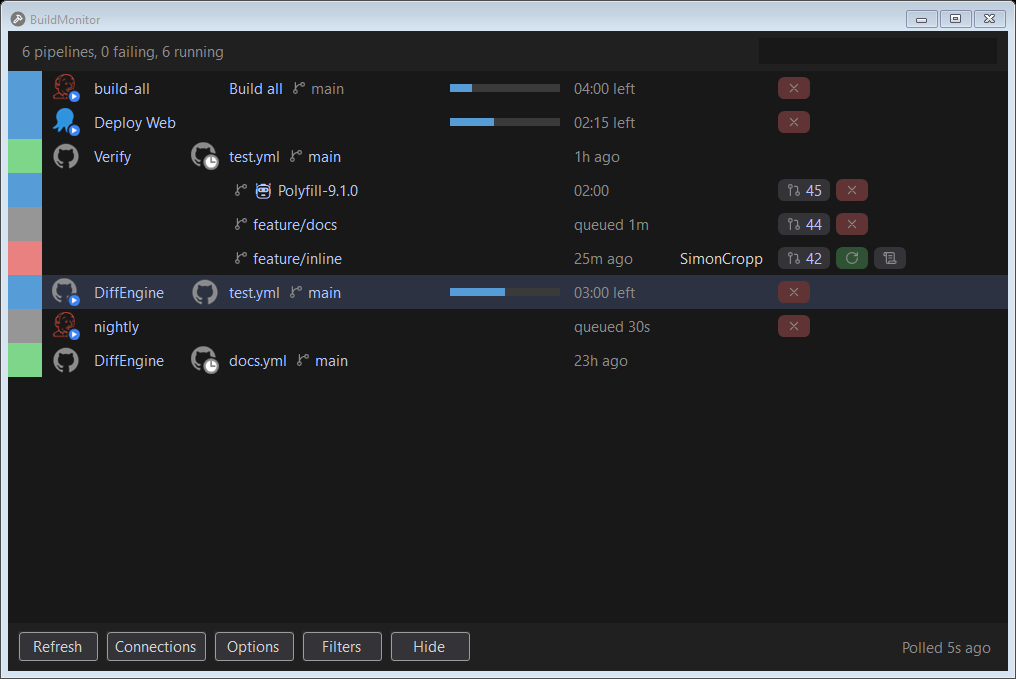
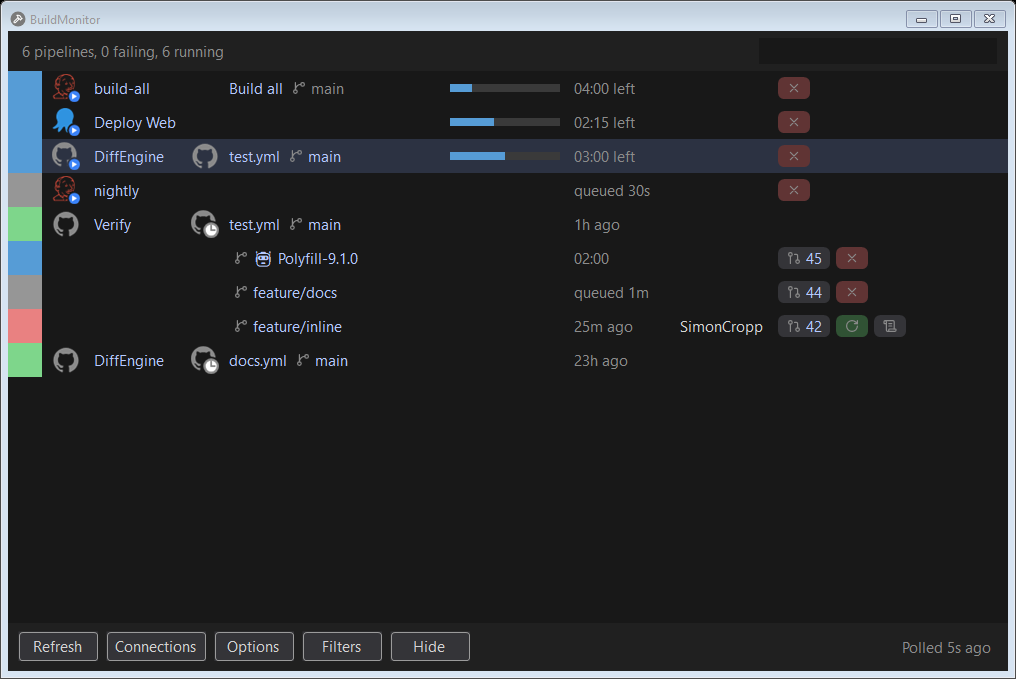
Sort a pipeline by its own run
A pipeline sorted by the most urgent of its rows, so a pull request running under a green main
pulled the green row up among the running ones, and a failed pull request put red above other
pipelines still running: the list read green and red in no order. A pipeline now sorts by its own
run, and its lanes stay beneath it wherever that is, so the rows sort as they did before lanes,
running, queued, failed, then the rest, a pipeline whose main passed sitting with the passing
rows while one of its pull requests runs.

Changed region(s): [[0.0, 0.1856, 1.0, 0.5258]]

diff --git a/src/BuildMonitor.Tests/Launcher/StatusPrinterTests.cs b/src/BuildMonitor.Tests/Launcher/StatusPrinterTests.cs
@@ -39,12 +39,12 @@ public class StatusPrinterTests
 
                   build-all   Build all   main               #501     Running    04:00 left   https://example.com/jenkins/build-all/501
                   Deploy Web  Deploy Web                     #12      Running    02:15 left   https://example.com/octo/Projects-1/12
+                  DiffEngine  test.yml    main               #1234    Running    03:00 left   https://example.com/gh/DiffEngine/test.yml/1234
+                  nightly     Nightly                        #88      Queued     queued 30s   https://example.com/jenkins/nightly/88
                   Verify      test.yml    main               #76      Succeeded  1h ago       https://example.com/gh/Verify/test.yml/76
                                           🤖 Polyfill-9.1.0  #80      Running    02:00        https://example.com/gh/Verify/test.yml/80
                                           feature/docs       #79      Queued     queued 1m    https://example.com/gh/Verify/test.yml/79
                                           feature/inline     #77      Failed     25m ago      https://example.com/gh/Verify/test.yml/77
-                  DiffEngine  test.yml    main               #1234    Running    03:00 left   https://example.com/gh/DiffEngine/test.yml/1234
-                  nightly     Nightly                        #88      Queued     queued 30s   https://example.com/jenkins/nightly/88
                   DiffEngine  docs.yml    main               #300     Succeeded  23h ago      https://example.com/gh/DiffEngine/docs.yml/300
                 """);
     }

diff --git a/src/BuildMonitor.Core/Session/RowProjection.cs b/src/BuildMonitor.Core/Session/RowProjection.cs
@@ -210,8 +210,10 @@ static class RowProjection
     }
 
     /// <summary>
-    /// By each pipeline's most urgent row, the most recent of those where several tie, so a
-    /// pipeline whose pull request is running sits with the running rows, its own run above it.
+    /// By each pipeline's own run, its lanes following it wherever that sorts. Sorted by the most
+    /// urgent of its rows, a green main was pulled up among the running rows by a pull request, and
+    /// the list read green and red in no order; the rows are about the pipeline's own run, and its
+    /// lanes are what it has going on besides.
     /// </summary>
     static ImmutableArray<PipelineBuilds> Sort(SessionState state) =>
     [
@@ -225,11 +227,12 @@ static class RowProjection
             .Select(_ => _.Pipeline)
     ];
 
+    /// <summary>
+    /// The row a pipeline sorts by: its own run, or, where a deferral hid that, the first lane,
+    /// which names the pipeline in its place.
+    /// </summary>
     static Build Lead(PipelineBuilds pipeline) =>
-        pipeline.Shown
-            .OrderBy(_ => _.Rank())
-            .ThenByDescending(_ => _.Ordering ?? DateTimeOffset.MinValue)
-            .First();
+        pipeline.Head ?? pipeline.Lanes[0];
 
     /// <summary>
     /// A deferral drops a row after the selection rather than before it: dropped first, the run

diff --git a/src/BuildMonitor.Tests/RowProjectionTests.cs b/src/BuildMonitor.Tests/RowProjectionTests.cs
@@ -71,8 +71,8 @@ public class RowProjectionTests
 
     /// <summary>
     /// A pipeline's lanes follow its own row, running before queued before failed, and the
-    /// pipeline sorts by the most urgent of its rows: Verify's running pull request puts Verify
-    /// among the running rows, its passing main above it.
+    /// pipeline sorts by its own run: Verify's main passed, so Verify sits with the passing rows,
+    /// its running pull request beneath it there.
     /// </summary>
     [Test]
     public Task LanesFollowTheirPipelinesRow() =>
@@ -82,12 +82,12 @@ public class RowProjectionTests
                 [
                   Build jenkins/build-all/main Running,
                   Build octo/Projects-1/ Running,
+                  Build gh/DiffEngine/test.yml/main Running,
+                  Build jenkins/nightly/ Queued,
                   Build gh/Verify/test.yml/main Succeeded,
                   Lane gh/Verify/test.yml/dependabot/nuget/src/Polyfill-9.1.0 Running,
                   Lane gh/Verify/test.yml/feature/docs Queued,
                   Lane gh/Verify/test.yml/feature/inline Failed,
-                  Build gh/DiffEngine/test.yml/main Running,
-                  Build jenkins/nightly/ Queued,
                   Build gh/DiffEngine/docs.yml/main Succeeded
                 ]
                 """);

diff --git a/src/BuildMonitor.Tests/ScreenTests.cs b/src/BuildMonitor.Tests/ScreenTests.cs
@@ -487,12 +487,12 @@ public class ScreenTests
                 [
                   Build [Build] '[build-all](Build)' provider-jenkins-run| | [Build all](Pipeline) main | [Cancel],
                   Build [Build] '[Deploy Web](Build)' provider-octopus-run| |  | [Cancel],
+                  Build [Build] '[DiffEngine](Build)' provider-github-run|host-github | [test.yml](Pipeline) [main](Branch) | [Cancel],
+                  Build [Build] '[nightly](Build)' provider-jenkins-run| |  | [Cancel],
                   Build [Build] '[Verify](Repo)' host-github|provider-github-history | [test.yml](Build) [main](Branch) | [OpenDirectory],
                   Build [Build] '' | | [🤖 Polyfill-9.1.0](Branch) | [PullRequest Cancel],
                   Build [Build] '' | | [feature/docs](Branch) | [PullRequest Cancel],
                   Build [Build] '' | | [feature/inline](Branch) | [PullRequest Retry CopyLog Triage],
-                  Build [Build] '[DiffEngine](Build)' provider-github-run|host-github | [test.yml](Pipeline) [main](Branch) | [Cancel],
-                  Build [Build] '[nightly](Build)' provider-jenkins-run| |  | [Cancel],
                   Build [Build] '[DiffEngine](Repo)' host-github|provider-github-history | [docs.yml](Build) [main](Branch) | []
                 ]
                 """);

diff --git a/docs/mdsource/tray.source.md b/docs/mdsource/tray.source.md
@@ -23,7 +23,7 @@ Each of the pipeline's other branches, a pull request's among them, gets a row d
 
 <img src="../src/BuildMonitor.Windows.Tests/MonitorFormTests.Lanes.verified.png">
 
-Rows sort what is happening now to the top: running, then queued, then failed, then everything else by age. A pipeline's rows stay together and sort by the most urgent of them, so a pipeline whose pull request is running sits with the running rows, its own row above the pull request's.
+Rows sort what is happening now to the top: running, then queued, then failed, then everything else by age. A pipeline sorts by its own build, and its other branches' rows stay beneath it wherever that is, so a pipeline whose main passed sits with the passing rows even while one of its pull requests runs.
 
 The header counts pipelines, how many of them are failing, and how many builds are running on any branch. A pipeline is failing when its own build failed: a pull request failing is red on its own row, and is announced, but counts for nothing in the header or the tray icon, where a contributor's broken fork would otherwise keep main looking red.
 

diff --git a/docs/tray.md b/docs/tray.md
@@ -30,7 +30,7 @@ Each of the pipeline's other branches, a pull request's among them, gets a row d
 
 <img src="../src/BuildMonitor.Windows.Tests/MonitorFormTests.Lanes.verified.png">
 
-Rows sort what is happening now to the top: running, then queued, then failed, then everything else by age. A pipeline's rows stay together and sort by the most urgent of them, so a pipeline whose pull request is running sits with the running rows, its own row above the pull request's.
+Rows sort what is happening now to the top: running, then queued, then failed, then everything else by age. A pipeline sorts by its own build, and its other branches' rows stay beneath it wherever that is, so a pipeline whose main passed sits with the passing rows even while one of its pull requests runs.
 
 The header counts pipelines, how many of them are failing, and how many builds are running on any branch. A pipeline is failing when its own build failed: a pull request failing is red on its own row, and is announced, but counts for nothing in the header or the tray icon, where a contributor's broken fork would otherwise keep main looking red.
 
